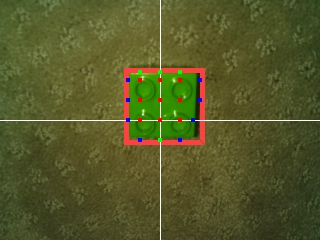
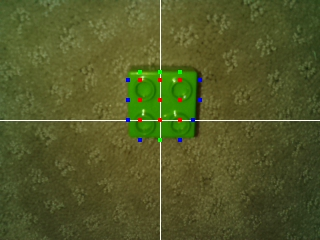
partial dumps viewer

Changed region(s): [[0.375, 0.2625, 0.6562, 0.6125]]

diff --git a/head/templates/main.html b/head/templates/main.html
@@ -651,6 +651,10 @@
                     $('#camera').prop('src', "static/test.jpg?" + Math.random())
                 });
           })
+          
+          $("#loaddump").click(function(){
+              
+          })
 
           readExtractorParameters($("#extractorParams"))
 
@@ -801,8 +805,8 @@
 	     </table>
 	     <table>
 	        <tr>
-	          <td>B=<input type="textfield" id="move_B" value="0"></td>
-	          <td>X=<input type="textfield" id="move_X" value="100"></td>
+	          <td>B=<input type="textfield" id="move_B" value="0"/></td>
+	          <td>X=<input type="textfield" id="move_X" value="100"/></td>
 	          <td><input type="button" id="move_Move" value="Move"></td>
 	        </tr>
 	     </table>
@@ -818,9 +822,52 @@
 		</tr>
 	</table>
 
-    <p>
-      <img id="camera" class="rotate180"/>
-    </p>
+    <table>
+        <tr>
+            <td>
+                <img id="camera" class="rotate180"/>
+            </td>
+            <td>
+                <canvas id="dump"/>
+            </td>
+            <td>
+                <table>
+                    <tr>
+                        <td>
+                            <input type="textfield" id="dumpname"/>
+                            <inout type="button" id="loaddump" value="LOAD"/>
+                        </td>
+                    </tr>
+                    <tr>
+                        <td>
+                            <input type="radio" name="camera_action"/>Move to the point
+                        </td>
+                    </tr>
+                    <tr>
+                        <td>
+                            <input type="radio" name="camera_action"/>Learn object
+                        </td>
+                    </tr>
+                    <tr>
+                        <td>
+                            <input type="radio" name="camera_action"/>Learn background
+                        </td>
+                    </tr>
+                    <tr>
+                        <td>
+                            <input type="radio" name="camera_action"/>Clear learning
+                        </td>
+                    </tr>
+                    <tr>
+                        <td>
+                            <input type="button" value="-" id="zoomout"/><label id="scale">1</label><input type="button" value="+" id="zoomout"/>
+                        </td>
+                    </tr>
+                </table>
+            </td>
+        </tr>
+    </table>
+   
     <h3>commands</h3>
     <ul>
       <li><B>R</B>pin - read pin</li>  

diff --git a/head/web.py b/head/web.py
@@ -34,9 +34,11 @@ def main():
                            MaxS = g_Head.MaxS,
                            pins = g_Head.Pins)
 
-@app.route("/dumps/<path:path>")
+@app.route("/dumps/<path>")
 def dumps(path):
-    return send_from_directory('../dumps', path)
+    (width, height, depth, data) = LoadDump('../dumps/%s.dump' % path)
+    dump = {"width": width, "height": height, "depth": depth}
+    return Response(json.dumps(dump), content_type='text/plain; charset=utf-8')
 
 @app.route("/servo/<id>/<v>")
 def servo(id, v):

diff --git a/head/visionModule/dlearning/dlearning.cpp b/head/visionModule/dlearning/dlearning.cpp
@@ -383,3 +383,12 @@ void TDeepLearningSegmentsExtractor::DrawDebugInfo(TMutableRGBImage* image){
         }
     }
 }
+/*
+ 1505247485
+ * 1505247578
+ 
+ *  1505247611
+ * 1505247639
+ * 
+ * 
+ */
